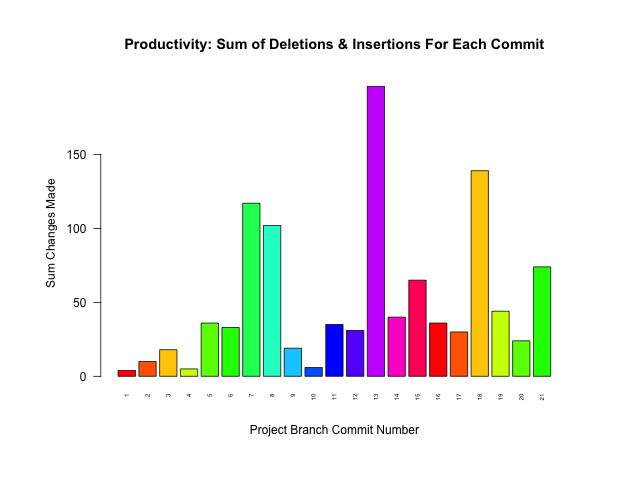
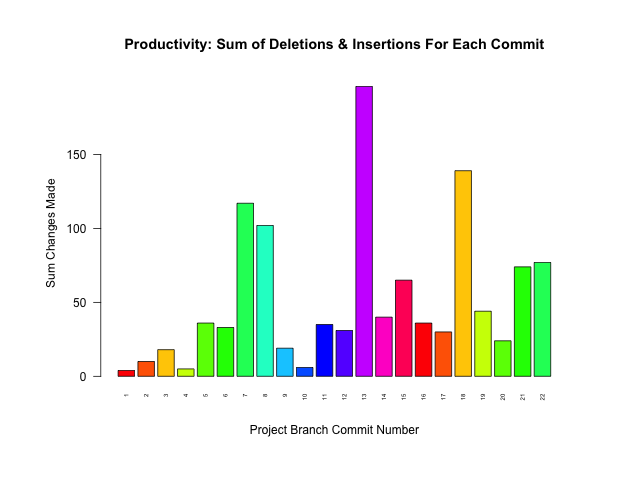
COMMIT #181

Changed region(s): [[0.1875, 0.1562, 0.875, 0.7812], [0.4688, 0.8125, 0.75, 0.8438], [0.7812, 0.8125, 0.8125, 0.8438]]

diff --git a/README.md b/README.md
@@ -17,8 +17,8 @@ ProjectName::BranchName.data
 
 Project Name | Last Updated | # Commits | # Branches | Branches Merged
 :---|:---:|:---:|:---:|:---:
-[learn_some_C.Plus.Plus](https://github.com/pierremigeon/learn_some_C.Plus.Plus)                    |  2023-05-22  |  21   |  1  |  100%  (1/1)
-[commit_tracker](https://github.com/pierremigeon/commit_tracker)                                    |  2023-05-21  |  179  |  1  |  100%  (1/1)
+[learn_some_C.Plus.Plus](https://github.com/pierremigeon/learn_some_C.Plus.Plus)                    |  2023-05-23  |  22   |  1  |  100%  (1/1)
+[commit_tracker](https://github.com/pierremigeon/commit_tracker)                                    |  2023-05-22  |  180  |  1  |  100%  (1/1)
 [minishell](https://github.com/pierremigeon/minishell)                                              |  2023-05-20  |  78   |  8  |  88%   (7/8)
 [libft](https://github.com/pierremigeon/libft)                                                      |  2023-05-20  |  28   |  2  |  50%   (1/2)
 [FASTQ_examiner](https://github.com/pierremigeon/FASTQ_examiner)                                    |  2023-05-12  |  68   |  4  |  50%   (2/4)
